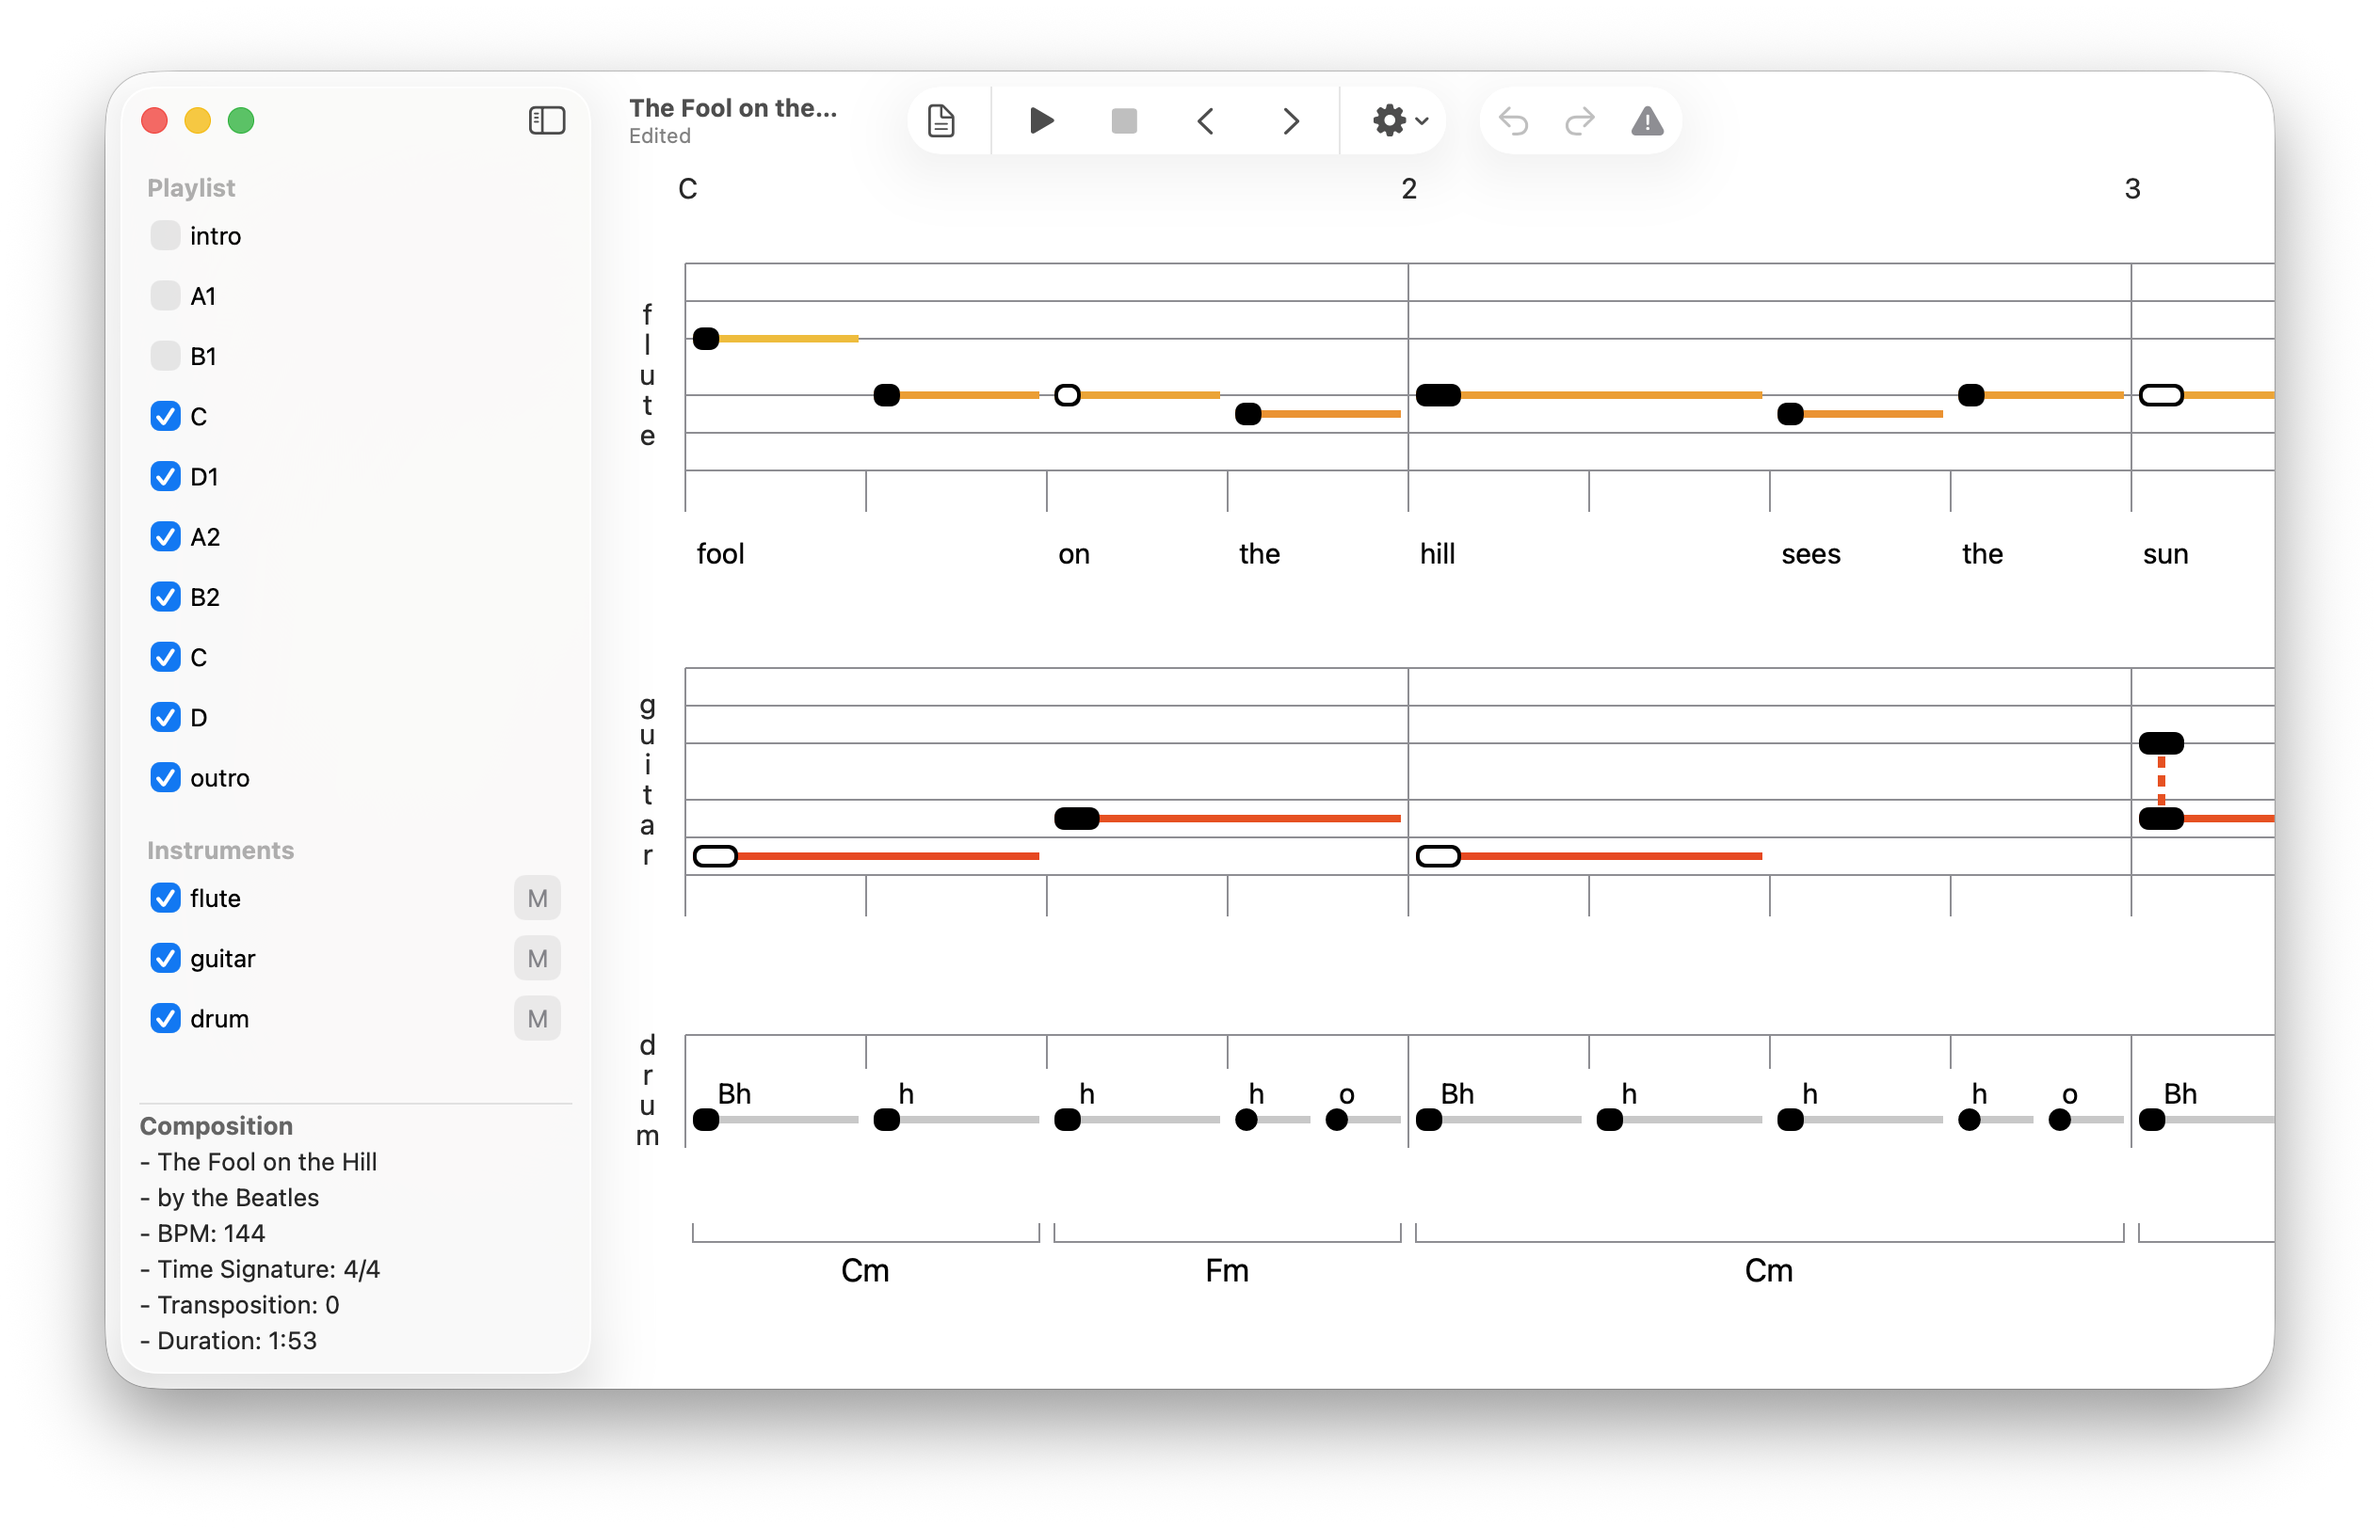
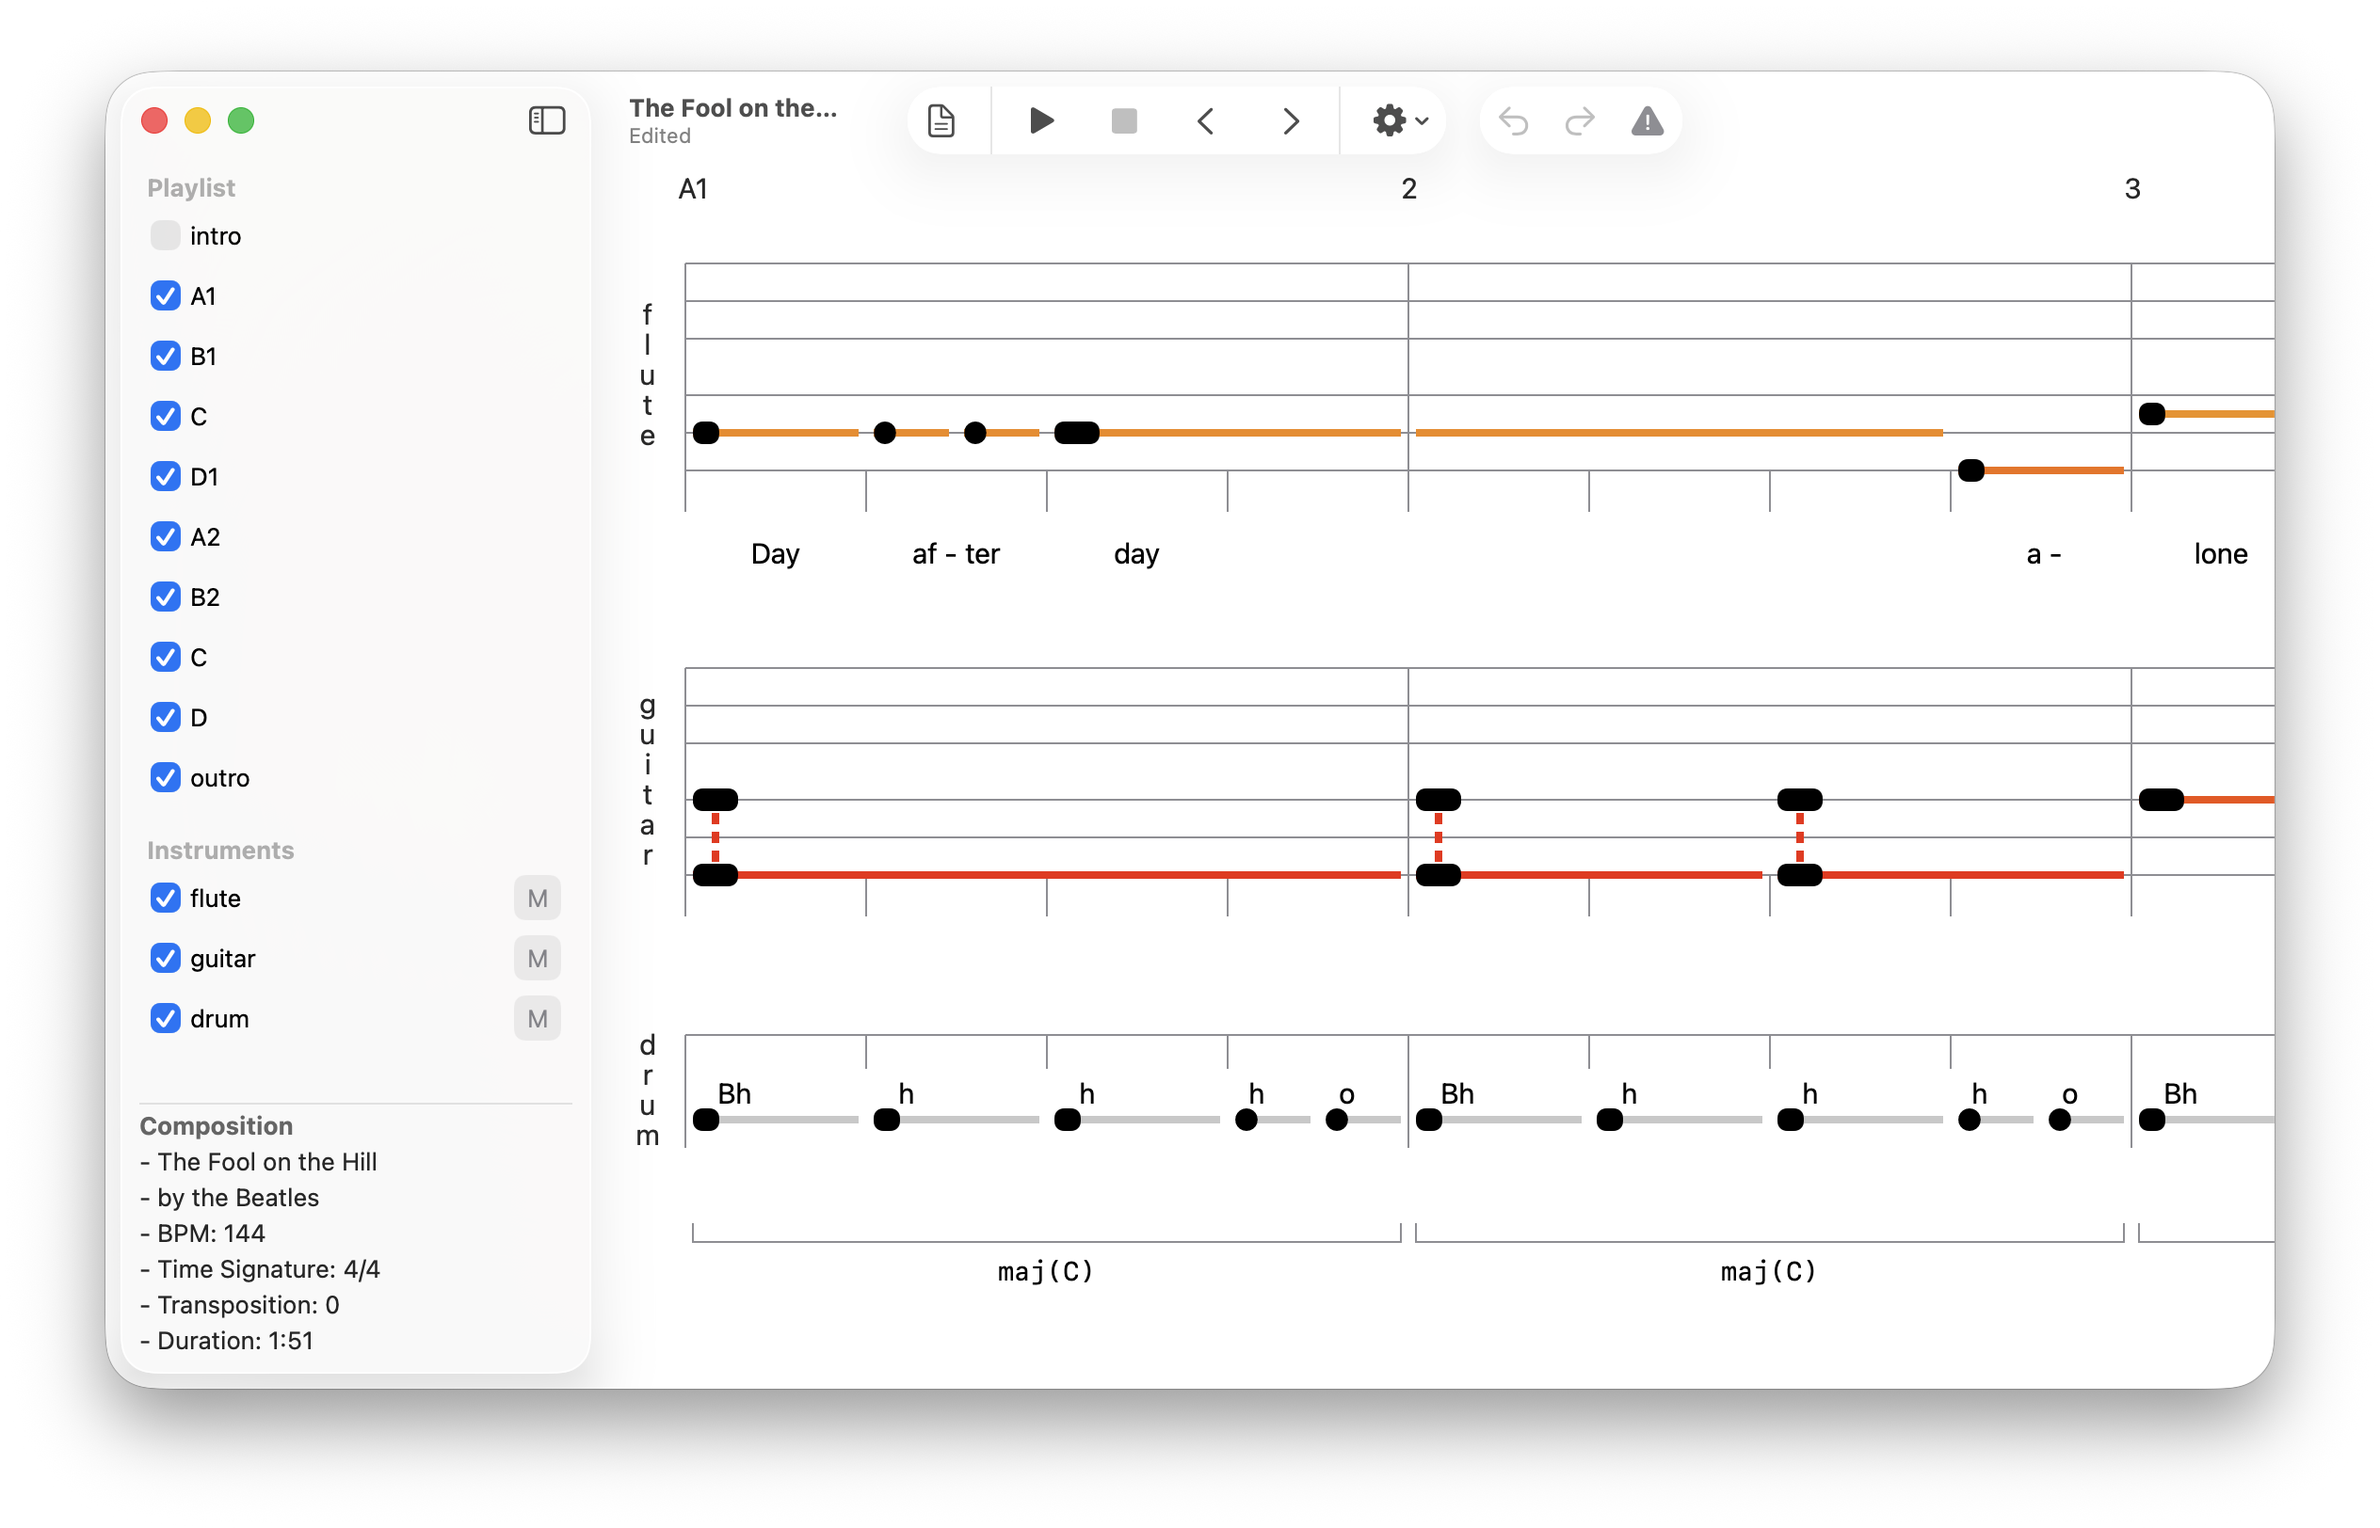
Updated user manual for release 1.1

diff --git a/App/Sources/EmuScriptDocument.swift b/App/Sources/EmuScriptDocument.swift
@@ -77,7 +77,7 @@ final public class EmuScriptDocument: FileDocument  {
         synth: "MIDI Input", channel=1, octave=3, velocity=80
 
         [intro]
-        synth: 1 2 3 4 | 5 6 7 1'
+        synth: C D E F | G A B C'
         """
         
         self.updatedDocument = self.textDocument

diff --git a/Doc/User-Manual.md b/Doc/User-Manual.md
@@ -88,11 +88,14 @@ An EMU script has differents sections that describe a composition.
 - **sequences**: In this section, you can define the musical phrases and patterns that occur many times in your composition.
 - **musical sections**: A musical section contains the sequence of notes to be played for each instrument. Each musical section has a name, and that name is listed in the playlist (at least once or many times). 
 
-In an EMU-Script, notes are referred to by their scale degree numbers (1 to 7). 
+In an EMU script, notes can either be numeric (1 to 7) or alphabetic (A to G). There is a strict equivalence between the two: C=1, D=2, E=3, F=4, G=5, A=6, and B=7. 
+
+Here are some of the language's reserved characters and their meaning:
 - The apostrophe is used to make a note one octave higher or lower. 
 - The dash increases a note duration.
 - The parentheses decrease the notes' durations.
 - The dot represents a silence.
+- The vertical bar is a measure separator.
 
 For a complete description of the scripting language, please refer to the EMU-Script Reference Manual.
 
@@ -185,7 +188,7 @@ bass: b1 | 6 6 2' 3' 5' 6' 2' 3' | b2 | 6 6 6' 5' 3' 2' 1' 6
 drum: d1 | * | * | * | * | * | * | d3 | c
 ```
 
-### 4.3 Christmas Song
+### 4.3 Simple Song
 ```
 [composition]
 title: "Noël Blanc"
@@ -195,28 +198,28 @@ time: 4/4
 playlist: A1, B, A2, C
 
 [instruments]
-lead: "piano", channel=1, octave=3, velocity=100      
-bass: "bass", channel=2, octave=2, velocity=90
+lead: "piano", channel=1, octave=3, velocity=95     
+bass: "bass", channel=11, octave=2, velocity=85
 
 [A]
-lead: 3 | 4 3 #2 3 | 4 | #4 5 - - | . 6 7 1' | 2' 1' 7 6 | 5 | . . 1 2 | 3 3 
-bass: 1 5 | 1 - '7 1 | 2 6 | #2 3 - 5 | 4 | - | 3 - 4 #4 | 5 | 1 - 1' 7 
+lead: E | F E #D E | F | #F G - - | . A B C' | D' C' B A | G | . . C D | E E 
+bass: C G | C - 'B C | D A | #D E - G | F | - | E - F #F | G | C - C' B 
 
 [A1]
-text: "Oh | quand j'en tends chan | ter | No ël - - | . J'aime a re | voir mes joies d'en | fant | . . Le sa | pin sin"
+text: "Oh | quand j'en_ tends chan_ | ter | No_ ël - - | . J'aime a re_ |voir mes joies d'en_ |fant | . . Le sa_ | pin sin_"
 
 [A2]
-text: "Oh | quand j'en tends so | nner | au ciel - - | . L'heure où le  | bon vieill ard des | cend | . . Je re | vois tes"
+text: "Oh | quand j'en tends so_ | nner | au ciel - - | . L'heure où le  | bon vieill_ ard des_ | cend | . . Je re_ | vois tes"
 
 [B]
-lead: 3 6 - 5 | 1 1 | 1 5 - 4 | 3 | 4 3 2 #1 | 2 | -
-text: "ti llant -  la | nei ge | d'ar gent - No | ël | mon beau rê ve | blanc"
-bass: #6 | 6 | #5 | 5 1 | #1 - - . | . 2 3 4 | 5 '7
+lead: E A - G | C C | C G - F | E | F E D #C | D | -
+text: "ti_ llant -  la | nei_ ge | d'ar_ gent - No_ | ël | mon beau rê_ ve | blanc"
+bass: #A | A | #G | G C | #C - - . | . D E F | G 'B
 
 [C]
-lead:  3 6 - 5 | 1' | 41 - 1 2 | 3 3 | 6- ('7) '7 '7 | 1 | -
-text: "yeux clairs - ma | man | . . Et  je | songe à | d'autres - No ëls | blancs"
-bass: #6 | 6 - 5 4 | #5 | 5 | 4 5 | . 1 | -
+lead:  E A - G | C' | FC - C D | E E | A- ('B) 'B 'B | C | -
+text: "yeux clairs - ma_ | man | . . Et  je | songe à | d'autres - No_ ëls | blancs"
+bass: #A | A - G F | #G | G | F G | . C | -
 ```
 
 ### 4.4 Guitar Strumming
@@ -243,5 +246,5 @@ r3: dw/chord(5) - - - - - up/chord(3) -
 
 [example]
 guitar: r1 | r2 | r1 | r3 | r1 | r2 | r1 | up/chord(5)
-chord: Am | Dm | 'G | C | F | Bdim | Em | Am
+chord: 'min(A) | min(D) | maj(G,D) | maj(C) | maj(F) | 'dim(B) | min(E) | 'min(A)
 ```
